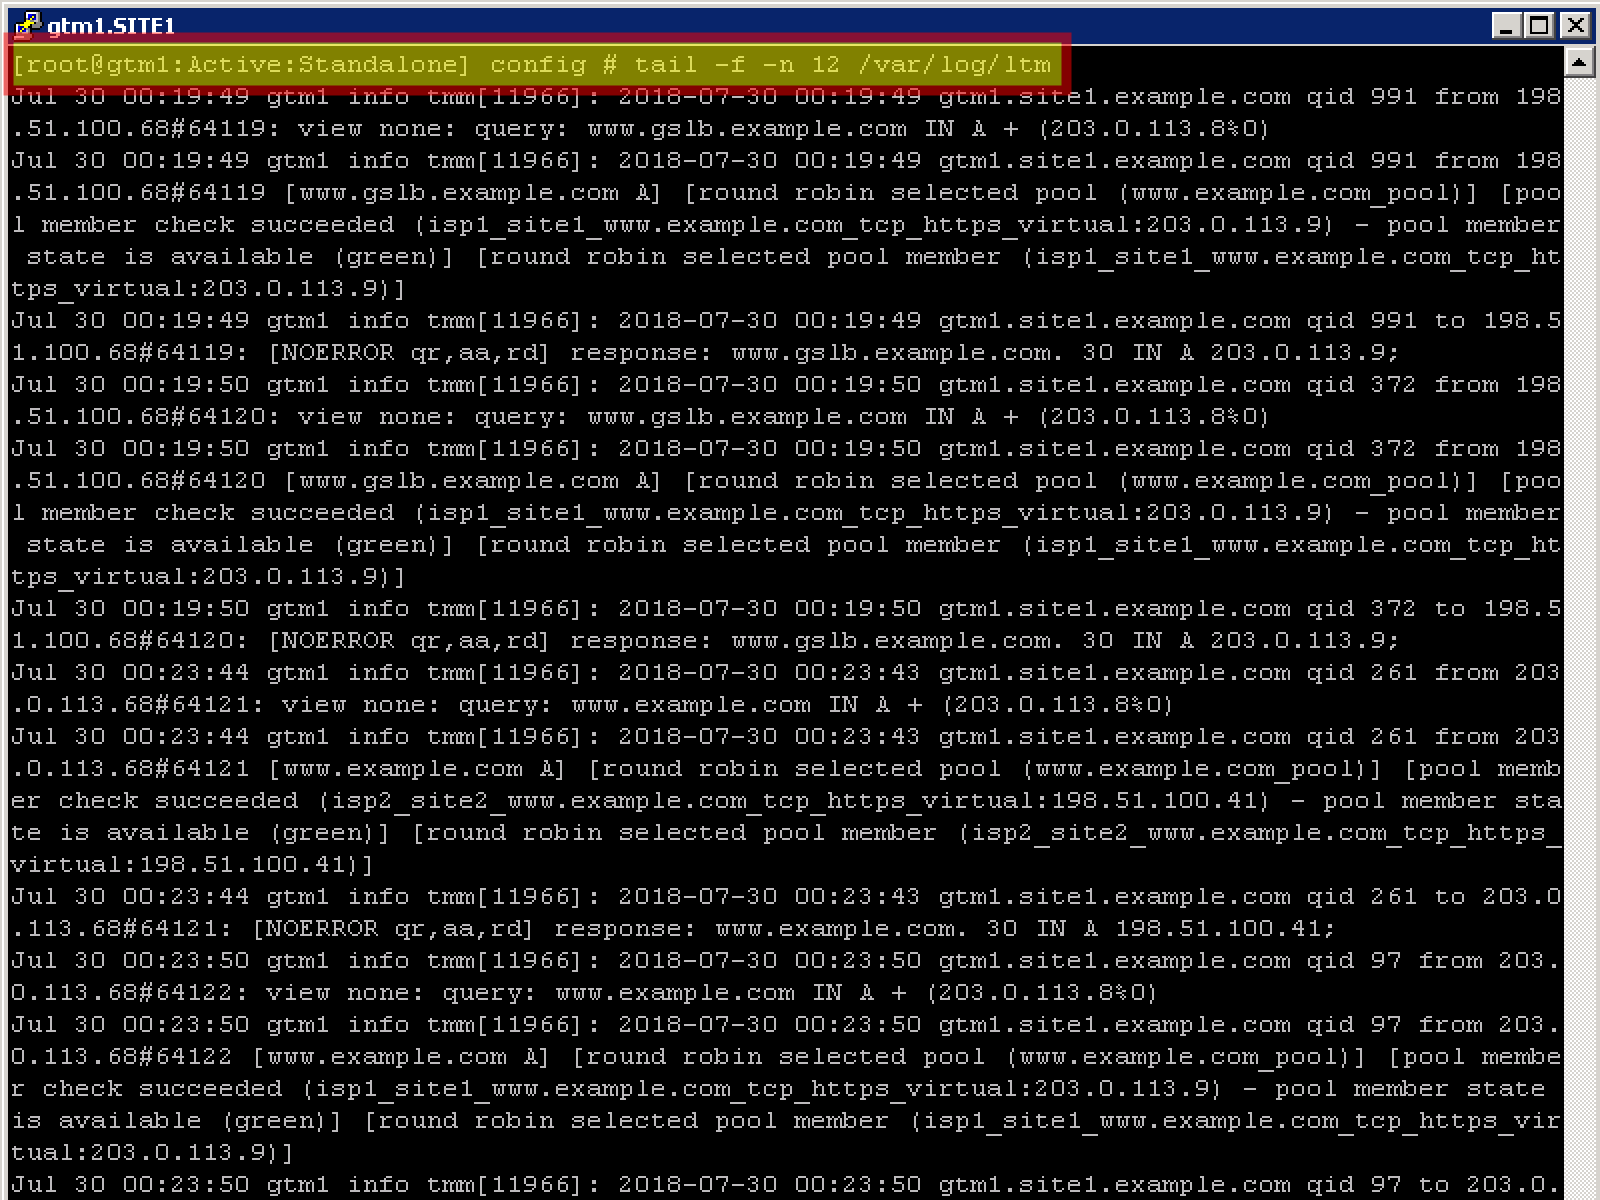
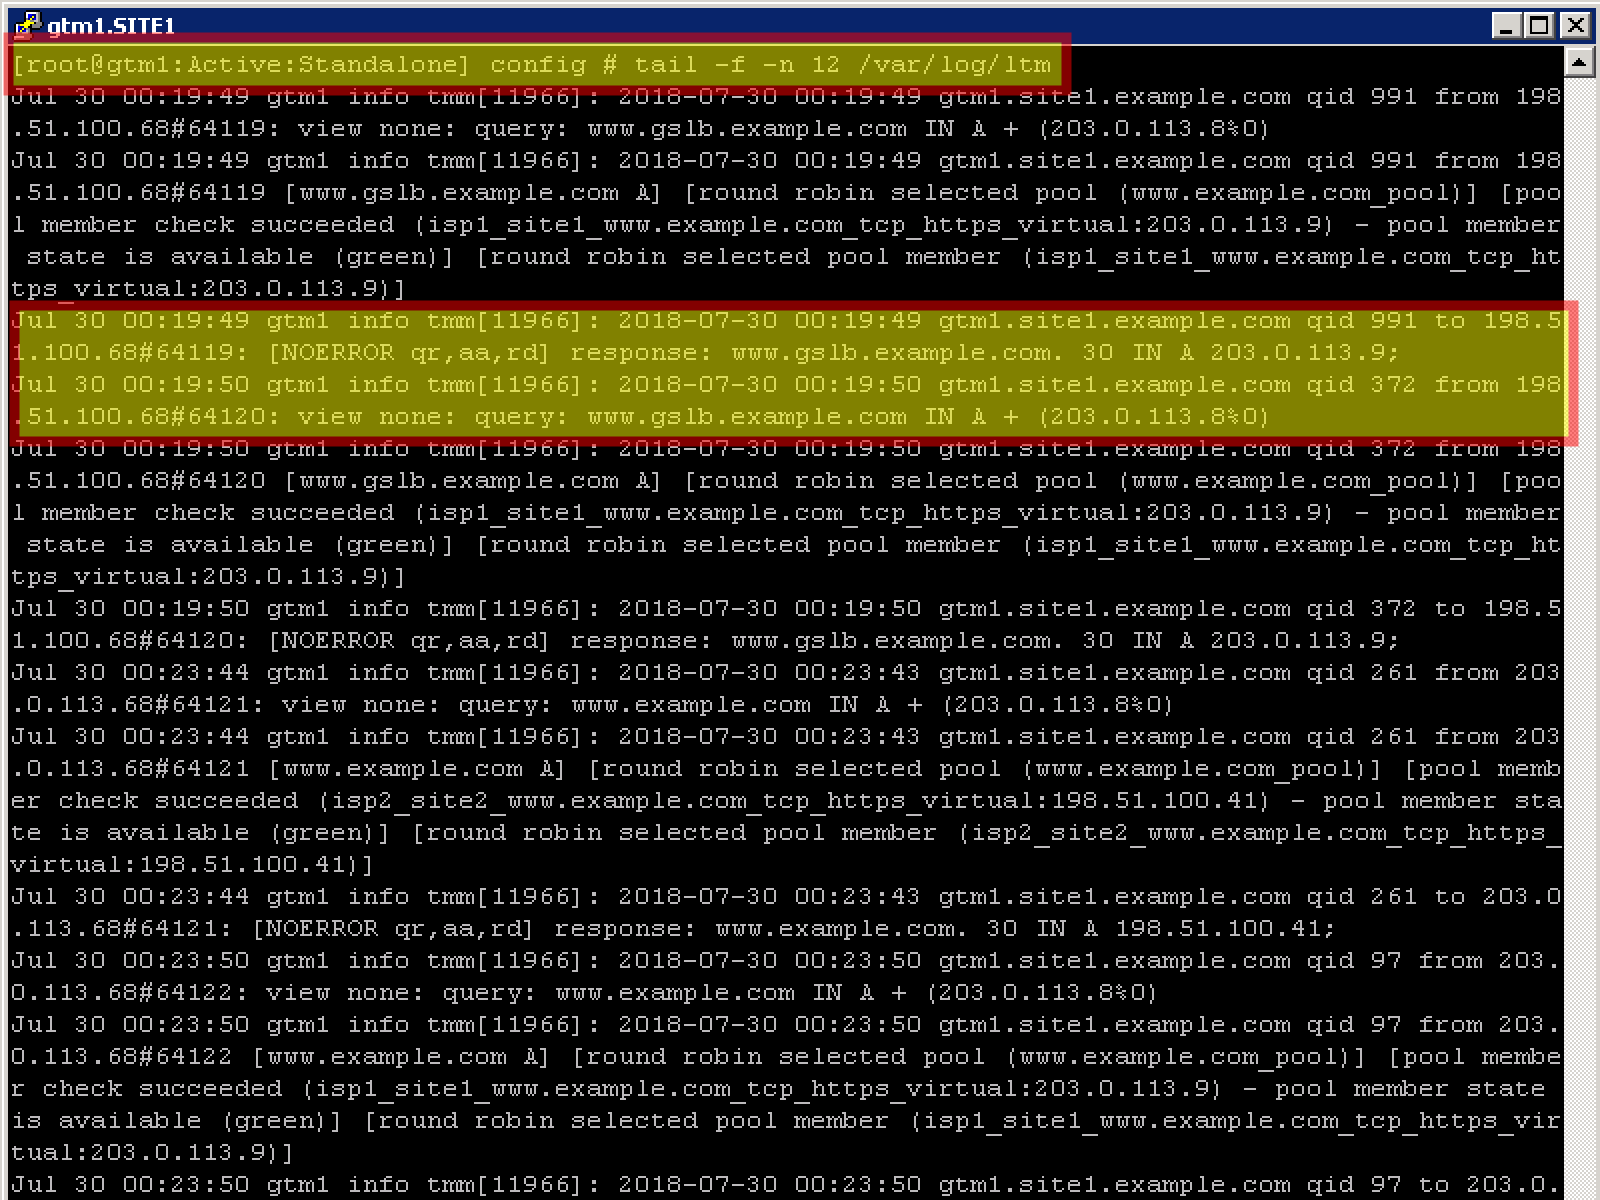
added more screenshots for DC01 delegation

Changed region(s): [[0.0, 0.2467, 1.0, 0.37]]

diff --git a/docs/class2/module1/lab06/task4.rst b/docs/class2/module1/lab06/task4.rst
@@ -1,0 +1,41 @@
+Results
+==============================
+
+From the Jumpbox use "dig" from the CMD prompt
+
+This time, allow your DNS requests to use your locally configured DNS server.
+
+.. image:: /_static/class2/jumpbox_dig_wwwexamplecom.png
+   :align: left
+
+|site1_wideip_statistics-flyout_link|
+
+.. |site1_wideip_statistics-flyout_link| raw:: html
+
+   On gtm1.site<b>1</b> <a href="https://gtm1.site1.example.com/tmui/Control/jspmap/tmui/globallb/stats/wideip/stats.jsp" target="_blank">view statistics</a>
+   
+.. image:: /_static/class2/gtm_wideip_statistics_flyout.png
+   :align: left
+
+|site1_wideip_statistics-detail_link|
+
+.. |site1_wideip_statistics-detail_link| raw:: html
+
+   <a href="https://gtm1.site1.example.com/tmui/Control/jspmap/tmui/globallb/stats/wideip/stats_detail.jsp?name=/Common/www.example.com&type=1&identity=www.example.com : A" target="_blank">For more details click "View"</a>
+
+.. image:: /_static/class2/gtm_wideip_statistics.png
+   :align: left
+
+.. admonition:: TMSH
+
+   tmsh show gtm wideip A www.example.com detail
+
+.. image:: /_static/class2/gtm_wideip_tmsh-show.png
+   :align: left
+
+.. admonition:: TMSH
+
+   tail -f /var/log/ltm
+
+.. image:: /_static/class2/tail_var_log_ltm.png
+   :align: left

diff --git a/docs/class2/module1/lab08/lab08.rst b/docs/class2/module1/lab08/lab08.rst
@@ -1,0 +1,38 @@
+Reporting
+=====================
+
+.. toctree::
+   :hidden:
+   :maxdepth: 2
+   :glob:
+
+|settings_KB_link|
+
+.. |settings_KB_link| raw:: html
+
+   <a href="https://support.f5.com/csp/article/K13734" target="_blank">A site specific sync-group name will synchronize configuration settings and metrics information</a>
+
+|site1-settings_link|
+
+.. |site1-settings_link| raw:: html
+
+   On gtm1.site<b>1</b> navigate to: <a href="https://gtm1.site1.example.com/tmui/Control/jspmap/tmui/dns/settings/gslb/properties_general.jsp" target="_blank">DNS  ››  Settings : GSLB : General</a>
+
+.. image:: /_static/class1/gtm_global_settings.png
+   :align: left
+
+Configure the global settings for GSLB according to the following table:
+
+.. csv-table::
+   :header: "Field", "Value"
+   :widths: 15, 15
+
+   "Synchronize", "checked"
+   "Group Name", "EXAMPLE_group"
+   "Synchronize DNS Zone Files", "checked"
+
+The above work may alternatively be completed using the command line. Using Putty log into gtm1.site1 and issue the following command.
+
+.. admonition:: TMSH
+
+   tmsh modify gtm global-settings general synchronization yes synchronization-group-name EXAMPLE_group synchronize-zone-files yes

diff --git a/docs/class2/module1/lab07/lab07.rst b/docs/class2/module1/lab07/lab07.rst
@@ -1,0 +1,38 @@
+API
+=====================
+
+.. toctree::
+   :hidden:
+   :maxdepth: 2
+   :glob:
+
+|settings_KB_link|
+
+.. |settings_KB_link| raw:: html
+
+   <a href="https://support.f5.com/csp/article/K13734" target="_blank">A site specific sync-group name will synchronize configuration settings and metrics information</a>
+
+|site1-settings_link|
+
+.. |site1-settings_link| raw:: html
+
+   On gtm1.site<b>1</b> navigate to: <a href="https://gtm1.site1.example.com/tmui/Control/jspmap/tmui/dns/settings/gslb/properties_general.jsp" target="_blank">DNS  ››  Settings : GSLB : General</a>
+
+.. image:: /_static/class1/gtm_global_settings.png
+   :align: left
+
+Configure the global settings for GSLB according to the following table:
+
+.. csv-table::
+   :header: "Field", "Value"
+   :widths: 15, 15
+
+   "Synchronize", "checked"
+   "Group Name", "EXAMPLE_group"
+   "Synchronize DNS Zone Files", "checked"
+
+The above work may alternatively be completed using the command line. Using Putty log into gtm1.site1 and issue the following command.
+
+.. admonition:: TMSH
+
+   tmsh modify gtm global-settings general synchronization yes synchronization-group-name EXAMPLE_group synchronize-zone-files yes

diff --git a/docs/class2/module1/lab06/task1.rst b/docs/class2/module1/lab06/task1.rst
@@ -1,15 +1,30 @@
 A Records
 =================================
 
-Create two new A records for the new BIGP-IP nameservers.
+#. Expand the sub-menus to expose EXAMPLE.COM in the "Forward Lookup Zones"
 
-.. csv-table::
-   :header: "Field", "Value"
-   :widths: 15, 15
+   .. image:: /_static/class2/dc01_expand_dns.png
+      :align: left
 
-   "ns1", "203.0.113.8"
-   "ns2", "198.51.100.40"
+#. Right click on EXAMPLE.COM and select "New Host (A or AAAA)"
 
-**Expand "Forward Lookup Zones"**, right click on EXAMPLE.COM and select "New Host"
+   .. image:: /_static/class2/dc01_right_click.png
+      :align: left
 
-.. image:: /_static/class1/dc01_new_A_ns2.png
+#. Create two new A records for the new BIGP-IP nameservers.
+
+   .. csv-table::
+      :header: "Field", "Value"
+      :widths: 15, 15
+
+      "ns1", "203.0.113.8"
+      "ns2", "198.51.100.40"
+
+
+   .. image:: /_static/class2/dc01_create_ns1.png
+      :align: left
+
+   Create ns2.example.com
+
+   .. image:: /_static/class1/dc01_new_A_ns2.png
+      :align: left

diff --git a/docs/class2/module1/lab06/task2.rst b/docs/class2/module1/lab06/task2.rst
@@ -4,23 +4,34 @@ Sub Domain
 #. Expand "Forward Lookup Zones", and right click on "EXAMPLE.com
 
    .. image:: /_static/class1/dc01_new_delegation.png
+      :align: left
 
 #. Create the "gslb" subdomain.
 
    .. image:: /_static/class1/dc01_new_delegation_create_gslb.png
+      :align: left
 
 #. Step through the Delegation Wizard. Add "ns1.example.com - 203.0.113.8"
 
+   .. image:: /_static/class2/dc01_new_delegate_add_ns1.png
+      :align: left
+
+   Repeat to add ns2.example.com
+
    .. image:: /_static/class1/dc01_new_delegation_ns1ns2.png
+      :align: left
 
 #. Also add "ns2.example.com - 198.51.100.40"
 
    .. image:: /_static/class1/dc01_new_delegation_ns1ns2_create.png
+      :align: left
 
 #. Make sure both ns1.example.com and ns2.example.com are added
 
    .. image:: /_static/class1/dc01_new_delegation_ns1ns2_create_finish.png
+      :align: left
 
 #. Click "Finish"
 
    .. image:: /_static/class1/dc01_new_delegation_create_gslb_finish.png
+      :align: left
